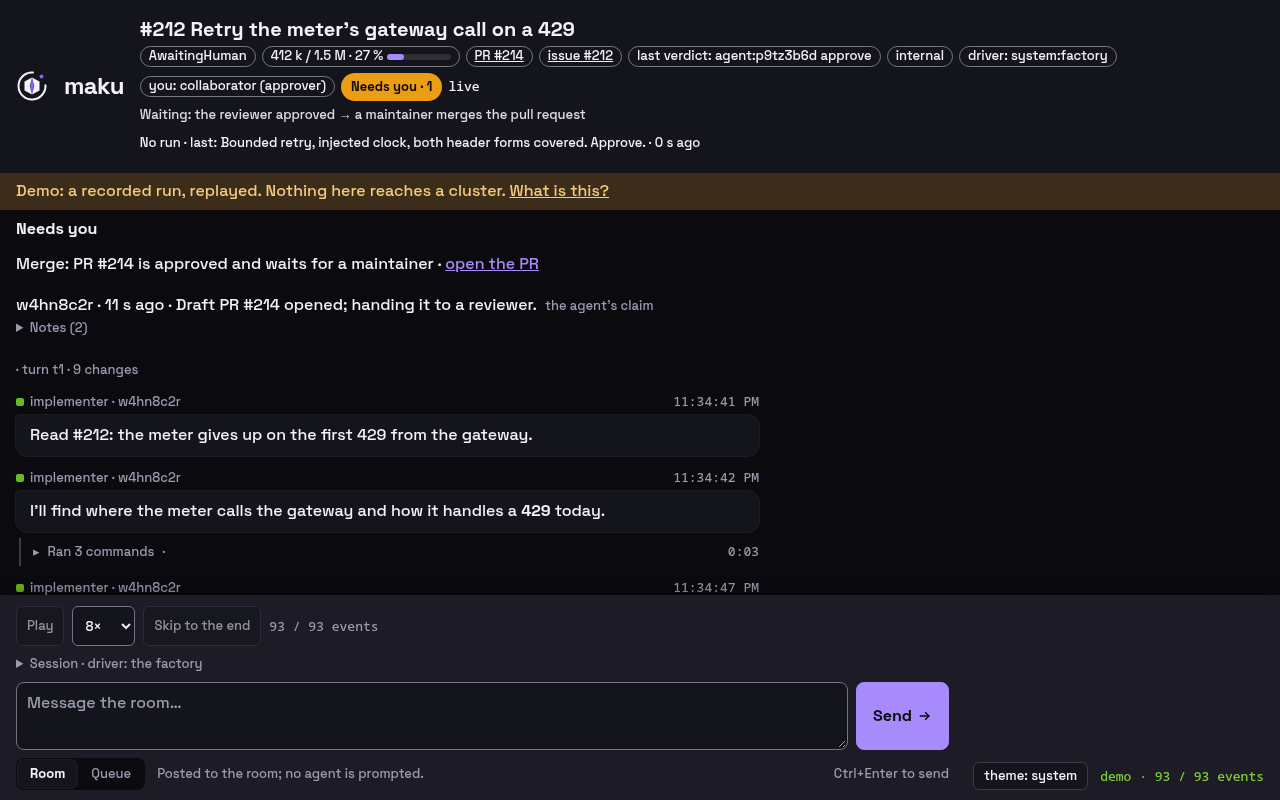
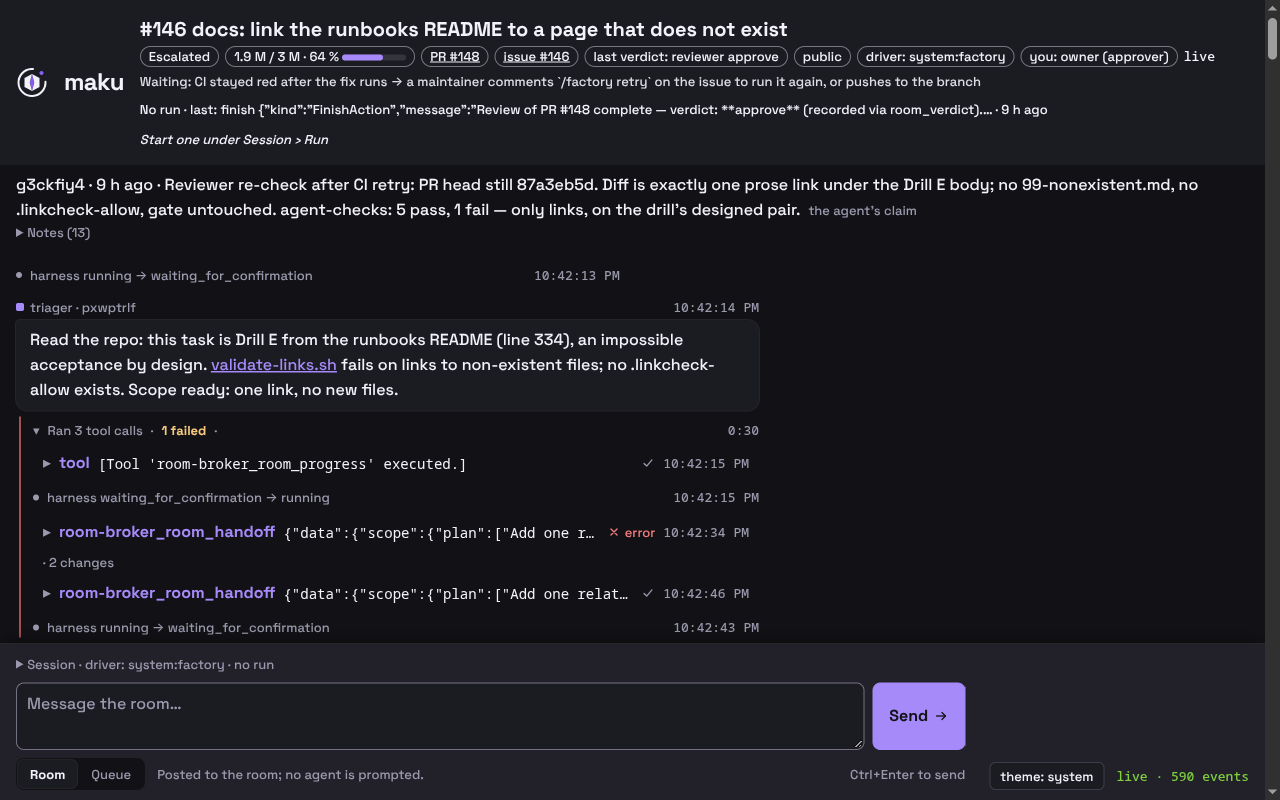
docs(web-ui): live Maku frames of the room list, a room, a phone and a scroll
The README's room frames and the web UI guide now show the deployed v0.29.0
UI on a real factory room (ai-native-ref #146, public data class), in light
and dark, plus the room list, a phone pair and a short scroll.

diff --git a/docs/web-ui.md b/docs/web-ui.md
@@ -24,6 +24,11 @@ Sources: `docs/api.md` (the `:8080` checks), `internal/policy/policy.go` (`Group
 A table, one row per room you can read. Rooms that need you come first, then the most recently
 active, then by id. The task cell links to the room page.
 
+<picture>
+  <source media="(prefers-color-scheme: dark)" srcset="assets/web-ui/rooms-dark.png">
+  <img alt="The room list: six factory rooms, the first with one item that needs you, with their repository, phase, PR, last activity and room id" src="assets/web-ui/rooms-light.png" width="800">
+</picture>
+
 | Column | Shows |
 |---|---|
 | Needs you | A count of what waits for you: approvals you could decide, a task held on a room you drive or own, a PR waiting for your merge. Empty when nothing does |
@@ -57,6 +62,11 @@ for this broker ([roomctl](roomctl.md)).
 
 ## The room page
 
+<picture>
+  <source media="(prefers-color-scheme: dark)" srcset="assets/room-dark.png">
+  <img alt="A room page: the title strip with its chips and waiting line, the agent's latest claim, the conversation with a message and folded tool calls, the dock" src="assets/room-light.png" width="800">
+</picture>
+
 From the top:
 
 | Part | Shows |
@@ -68,6 +78,14 @@ From the top:
 | Raw events | A fold, closed by default, with every event as the broker wrote it. It is always as current as the conversation |
 | Controls | Named groups, each shown only to the standings that use it: **Run** (start a run as a role; a PR URL for a reviewer, egress profiles under `advanced`), **Driver** (who holds the token; give, interrupt, request, take with a reason), **Queued for the next run** (remove; `steer now` for the driver), and **Room**, a fold for owners (members, invite, how to stop the task with `factory/stop` on its issue, close) |
 | Dock | Pinned at the foot: the composer (the text, `Deliver to` — post to the room, queue for the next run's brief, or steer the running agent — and Send), the page's notices, the theme button and the connection |
+
+Scrolling a finished factory room, from the strip down through its turns and tool calls:
+
+<img alt="Scrolling down a factory room's conversation: the triager's scope, folded tool calls with their status, state changes folded into turns" src="assets/web-ui/room-scroll.gif" width="800">
+
+On a phone the strip stacks above the conversation:
+
+<img alt="The same room on a phone, light theme" src="assets/web-ui/room-phone-light.png" width="260"> <img alt="The same room on a phone, dark theme" src="assets/web-ui/room-phone-dark.png" width="260">
 
 Destructive acts ask first: **interrupt**, **take**, **steer now** and **close room** turn into
 `confirm: …` beside a cancel, and go back after 10 s, on cancel, or when the control is hidden.

diff --git a/README.md b/README.md
@@ -18,7 +18,7 @@ Maku is the product name; `agent-platform` stays the name of the repository, mod
 <a href="https://blog.ogenki.io/agent-platform/">
   <picture>
     <source media="(prefers-color-scheme: dark)" srcset="docs/assets/room-dark.png">
-    <img alt="A room replaying an agent run: steps of tool calls, a denied command, an approval, the composer" src="docs/assets/room-light.png" width="800">
+    <img alt="A live factory room: the task's chips with its PR and the reviewer's approving verdict, the agent's latest claim, the triager's scope, its tool calls, the composer" src="docs/assets/room-light.png" width="800">
   </picture>
 </a>
 
